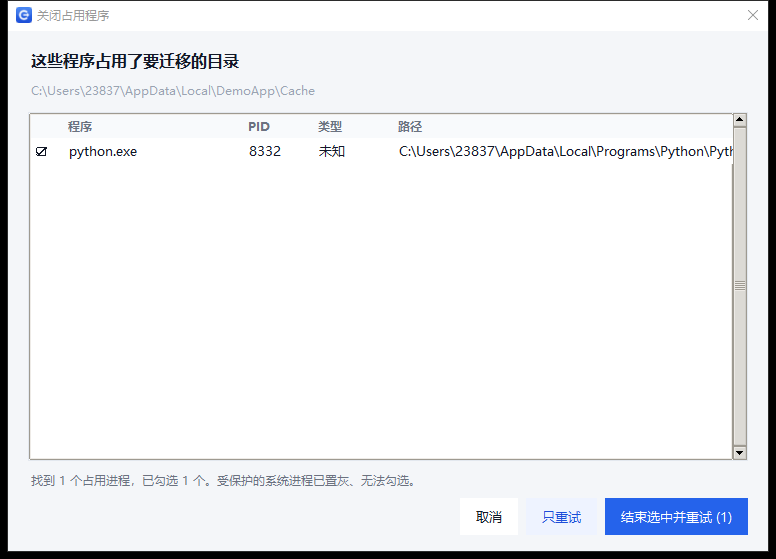
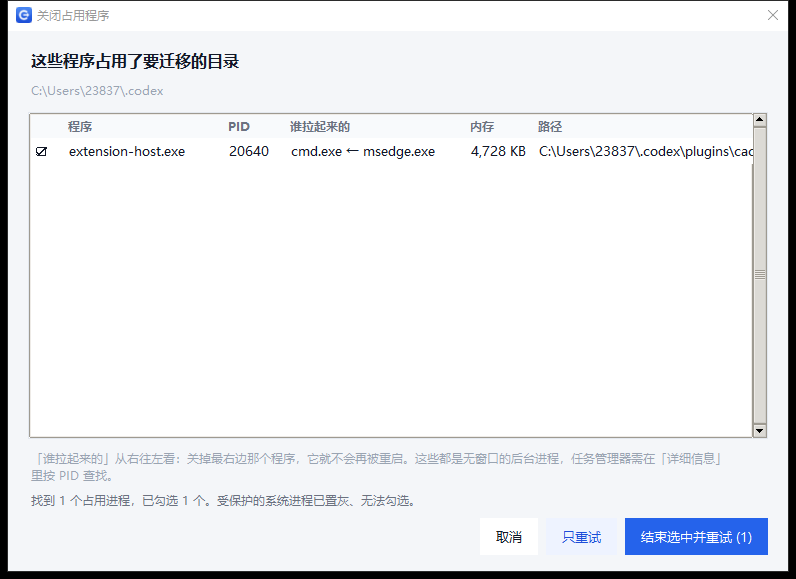
feat: 关闭占用对话框显示父进程链与内存，并检测「杀了又活」
用户反馈任务管理器找不到 extension-host.exe（PID 26008），以为是误报。
实测该进程真实存在，只是无窗口的后台进程；且 PID 会变化（被父进程重新拉起）。

- using_processes 增加 _ancestor_chain()：显示「谁拉起来的」，
  例如 cmd.exe ← msedge.exe，一眼看出该关哪个程序
- 增加 _snapshot()（Toolhelp 一次遍历拿全部父子关系）与 _mem_kb()（psapi）
- 用 GetProcessTimes 比对创建时间，过滤已退出的进程（PID 会被复用）
- 结束进程后重新扫描：若同名同路径进程又出现，提示「被父进程守护」，
  说明结束进程治不了根，应关闭那个程序
- 对话框补一行说明：无窗口后台进程，任务管理器需在「详细信息」按 PID 查
- 更新 docs/unlock.png

diff --git a/cdisk/handles.py b/cdisk/handles.py
@@ -74,6 +74,92 @@ def _exe_of(pid: int) -> str:
     return ""
 
 
+class PROCESSENTRY32W(ctypes.Structure):
+    _fields_ = [
+        ("dwSize", wt.DWORD), ("cntUsage", wt.DWORD), ("th32ProcessID", wt.DWORD),
+        ("th32DefaultHeapID", ctypes.POINTER(ctypes.c_ulong)),
+        ("th32ModuleID", wt.DWORD), ("cntThreads", wt.DWORD),
+        ("th32ParentProcessID", wt.DWORD), ("pcPriClassBase", ctypes.c_long),
+        ("dwFlags", wt.DWORD), ("szExeFile", wt.WCHAR * 260),
+    ]
+
+
+def _snapshot() -> dict:
+    """{pid: (ppid, name)}，一次遍历拿全，避免逐个查询。"""
+    TH32CS_SNAPPROCESS = 0x00000002
+    out = {}
+    try:
+        k32 = ctypes.WinDLL("kernel32", use_last_error=True)
+        snap = k32.CreateToolhelp32Snapshot(TH32CS_SNAPPROCESS, 0)
+        if snap == -1:
+            return out
+        try:
+            e = PROCESSENTRY32W()
+            e.dwSize = ctypes.sizeof(PROCESSENTRY32W)
+            ok = k32.Process32FirstW(snap, ctypes.byref(e))
+            while ok:
+                out[int(e.th32ProcessID)] = (int(e.th32ParentProcessID), e.szExeFile)
+                ok = k32.Process32NextW(snap, ctypes.byref(e))
+        finally:
+            k32.CloseHandle(snap)
+    except Exception:
+        pass
+    return out
+
+
+class PROCESS_MEMORY_COUNTERS(ctypes.Structure):
+    _fields_ = [
+        ("cb", wt.DWORD), ("PageFaultCount", wt.DWORD),
+        ("PeakWorkingSetSize", ctypes.c_size_t), ("WorkingSetSize", ctypes.c_size_t),
+        ("QuotaPeakPagedPoolUsage", ctypes.c_size_t),
+        ("QuotaPagedPoolUsage", ctypes.c_size_t),
+        ("QuotaPeakNonPagedPoolUsage", ctypes.c_size_t),
+        ("QuotaNonPagedPoolUsage", ctypes.c_size_t),
+        ("PagefileUsage", ctypes.c_size_t), ("PeakPagefileUsage", ctypes.c_size_t),
+    ]
+
+
+def _mem_kb(pid: int) -> int:
+    try:
+        PROCESS_QUERY_LIMITED_INFORMATION = 0x1000
+        k32 = ctypes.WinDLL("kernel32", use_last_error=True)
+        h = k32.OpenProcess(PROCESS_QUERY_LIMITED_INFORMATION, False, pid)
+        if not h:
+            return 0
+        try:
+            psapi = ctypes.WinDLL("psapi")
+            c = PROCESS_MEMORY_COUNTERS()
+            c.cb = ctypes.sizeof(PROCESS_MEMORY_COUNTERS)
+            if psapi.GetProcessMemoryInfo(h, ctypes.byref(c), c.cb):
+                return int(c.WorkingSetSize // 1024)
+        finally:
+            k32.CloseHandle(h)
+    except Exception:
+        pass
+    return 0
+
+
+def _still_alive(pid: int, start_time) -> bool:
+    """PID 会被复用，必须比对创建时间才能确认是同一个进程。"""
+    try:
+        PROCESS_QUERY_LIMITED_INFORMATION = 0x1000
+        k32 = ctypes.WinDLL("kernel32", use_last_error=True)
+        h = k32.OpenProcess(PROCESS_QUERY_LIMITED_INFORMATION, False, pid)
+        if not h:
+            return False
+        try:
+            ct, et, kt, ut = wt.FILETIME(), wt.FILETIME(), wt.FILETIME(), wt.FILETIME()
+            if not k32.GetProcessTimes(h, ctypes.byref(ct), ctypes.byref(et),
+                                       ctypes.byref(kt), ctypes.byref(ut)):
+                return True     # 查不到就当作还在，宁可多报
+            return (ct.dwLowDateTime == start_time.dwLowDateTime
+                    and ct.dwHighDateTime == start_time.dwHighDateTime)
+        finally:
+            k32.CloseHandle(h)
+    except Exception:
+        return True
+
+
 def _sample_files(root: str, limit: int = 320, max_walk: int = 6000) -> list:
     """挑一批「最可能被占用」的文件：优先最近修改过的。"""
     rows = []
@@ -101,6 +187,23 @@ def _sample_files(root: str, limit: int = 320, max_walk: int = 6000) -> list:
             continue
     rows.sort(reverse=True)
     return [p for _, p in rows[:limit]]
+
+
+def _ancestor_chain(pid: int, snap: dict, depth: int = 3) -> str:
+    """返回「谁把它拉起来的」链条，父在前，例如 cmd.exe ← msedge.exe。"""
+    names = []
+    cur = snap.get(pid, (0, ""))[0]
+    for _ in range(depth):
+        if not cur or cur <= 4:
+            break
+        info = snap.get(cur)
+        if not info:
+            break
+        nm = info[1]
+        if nm and nm.lower() not in ("explorer.exe", "winlogon.exe", "services.exe"):
+            names.append(nm)
+        cur = info[0]
+    return " ← ".join(names) if names else "—"
 
 
 def using_processes(path: str, limit: int = 320) -> list:
@@ -141,10 +244,14 @@ def using_processes(path: str, limit: int = 320) -> list:
 
         out = []
         me = os.getpid()
+        snap = _snapshot()
         for i in range(min(count.value, n)):
             info = buf[i]
             pid = int(info.Process.dwProcessId)
             if pid == me or pid <= 4:
+                continue
+            # 进程可能已经退出（Restart Manager 拿到的是查询那一刻的快照）
+            if not _still_alive(pid, info.Process.ProcessStartTime):
                 continue
             exe = _exe_of(pid)
             name = os.path.basename(exe) if exe else (info.strAppName or f"PID {pid}")
@@ -154,6 +261,8 @@ def using_processes(path: str, limit: int = 320) -> list:
                 "exe": exe,
                 "app": info.strAppName,
                 "type": RM_APP_TYPE.get(int(info.ApplicationType), "未知"),
+                "parent": _ancestor_chain(pid, snap),
+                "mem_kb": _mem_kb(pid),
             })
         # 去重
         seen, uniq = set(), []

diff --git a/cdisk/pages/unlock.py b/cdisk/pages/unlock.py
@@ -35,10 +35,15 @@ def show_unlock(parent, app, paths, on_retry=None):
     body = card(win, padx=0, pady=0)
     body.pack(fill="both", expand=True, padx=pad, pady=(10, 8))
     cols = [("chk", ""), ("name", "程序"), ("pid", "PID"),
-            ("type", "类型"), ("exe", "路径")]
-    frame, tv = tree(body.inner, cols, [34, 180, 70, 80, 380], height=10,
-                     stretch=[False, False, False, False, True])
+            ("parent", "谁拉起来的"), ("mem", "内存"), ("exe", "路径")]
+    frame, tv = tree(body.inner, cols, [34, 160, 62, 180, 68, 300], height=10,
+                     stretch=[False, False, False, False, False, True])
     frame.pack(fill="both", expand=True)
+
+    tip = label(win, "「谁拉起来的」从右往左看：关掉最右边那个程序，它就不会再被重启。"
+                     "这些都是无窗口的后台进程，任务管理器需在「详细信息」里按 PID 查找。",
+                F_SMALL, SUB, BG, justify="left", wraplength=700)
+    tip.pack(anchor="w", padx=pad, pady=(0, 2))
 
     status = label(win, "正在查找占用程序 …", F_SMALL, MUTED, BG)
     status.pack(anchor="w", padx=pad)
@@ -80,9 +85,12 @@ def show_unlock(parent, app, paths, on_retry=None):
             return
         for i, p in enumerate(procs):
             prot = is_protected(p["name"])
+            mem = p.get("mem_kb", 0)
             iid = tv.insert("", "end", values=(
                 BOX_OFF if prot else BOX_ON, p["name"], p["pid"],
-                p["type"], p["exe"] or p["app"] or "—"),
+                p.get("parent", "—"),
+                f"{mem:,} KB" if mem else "—",
+                p["exe"] or p["app"] or "—"),
                 tags=("warn",) if prot else (("even",) if i % 2 else ()))
             state["rows"][iid] = p
             state["checked"][iid] = not prot
@@ -116,12 +124,15 @@ def show_unlock(parent, app, paths, on_retry=None):
                 f"即将强制结束 {len(pids)} 个进程：\n{names}\n\n"
                 "未保存的数据会丢失。确定继续？", parent=win):
             return
+        # 记下被结束的可执行文件路径，用于判断是否被重新拉起
+        killed = {state["rows"][i]["exe"].lower() for i, v in state["checked"].items()
+                  if v and i in state["rows"] and state["rows"][i].get("exe")}
         btn_kill.configure(state="disabled")
         status.configure(text="正在结束进程 …", fg=MUTED)
         ok, bad = kill_processes(pids)
-        win.after(1200, lambda: finish(ok, bad))
+        win.after(1500, lambda: finish(ok, bad, killed))
 
-    def finish(ok, bad):
+    def finish(ok, bad, killed=None):
         win.grab_release()
         win.destroy()
         if bad:
@@ -129,6 +140,24 @@ def show_unlock(parent, app, paths, on_retry=None):
                 "部分进程未能结束",
                 f"成功 {ok} 个，失败 {len(bad)} 个。\n"
                 "失败通常是权限不足（需要管理员）或进程受系统保护。")
+
+        # 有些进程被父进程守护，杀掉会立刻重启——这种情况结束进程治不了根
+        killed = killed or set()
+        again = []
+        try:
+            again = [p for p in work() if (p.get("exe") or "").lower() in killed]
+        except Exception:
+            again = []
+        if again:
+            names = "、".join(sorted({p["name"] for p in again}))
+            chain = next((p.get("parent") for p in again
+                          if p.get("parent") not in (None, "—")), "")
+            hint = f"\n它是被「{chain}」拉起来的。" if chain else ""
+            messagebox.showwarning(
+                "进程又被启动了",
+                f"{names} 刚刚又重新出现了，说明有父进程在守护它。{hint}\n\n"
+                "结束进程治不了根，请直接关闭那个程序（看「谁拉起来的」列），再回来重试迁移。")
+            return
         if on_retry:
             on_retry()
 
